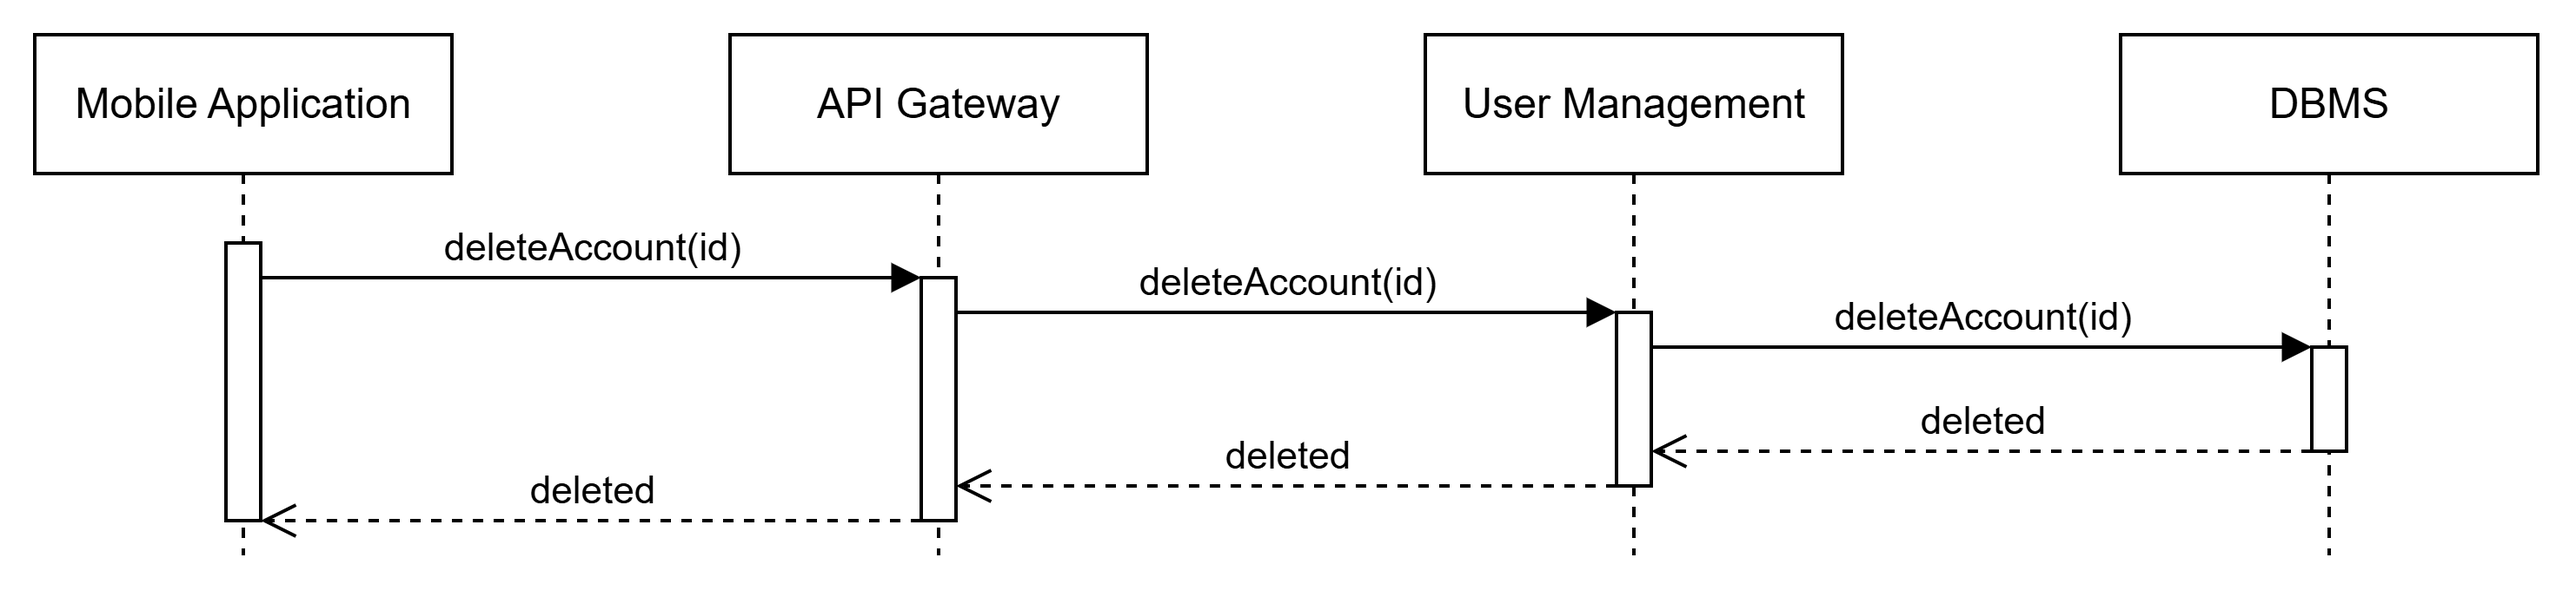
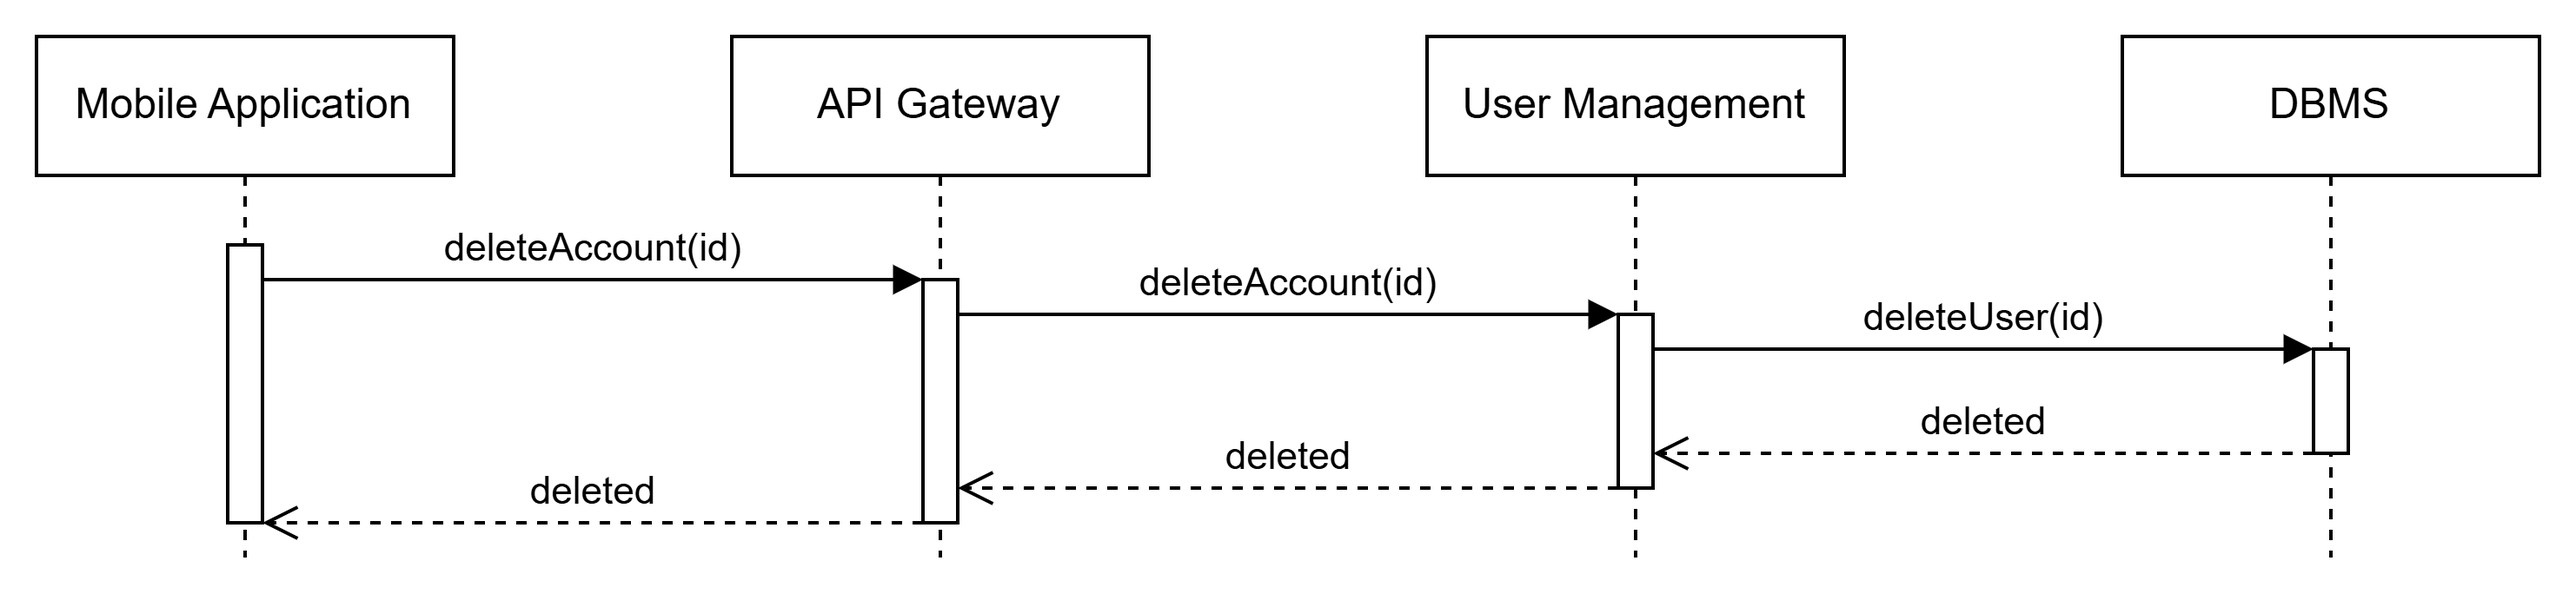
FixAdd(Section 2.4-2.5) Fix Sequence Diagrams, Add API
Fixed sequence diagrams to better model the system and make them consistent. Added the interfaces of the various components.

diff --git a/DD/source/sections/2_architectural_design.tex b/DD/source/sections/2_architectural_design.tex
@@ -116,6 +116,13 @@ This component is a third-party meteorological data provider used by the platfor
 \paragraph{User Device}
 This component is the physical hardware interface and operating system services of the user's mobile device. It serves as the primary source of telemetry, continuously generating geolocation coordinates (via GPS) and motion sensor data. Crucially, it enforces operating system-level security, ensuring that the application can only access this sensitive hardware if the user has explicitly granted the necessary runtime permissions.
 
+\begin{figure}[H]
+    \centering
+    \includegraphics[width=0.9\linewidth]{DD//source//images//diagrams/component_diagram.png}
+    \caption{Component Diagram.}
+    \label{fig:component_diagram}
+\end{figure}
+
 \subsection{Deployment View}
 \begin{figure}[H]
     \centering
@@ -155,7 +162,7 @@ The following diagrams show the interaction between the various component that m
 
 This sequence diagram shows the interactions between system components during user registration. Note that the local email and password validation is only syntactical, checking for errors in the email formatting and for well formed passwords. The password is hashed using salting and peppering, as already mentioned in the RASD, before sending the registration request to the back-end for better security. The \code{id} is generated by the DBMS, cached in the API gateway and returned to the user for session handling: all subsequent client requests also include the id, so the API gateway can authenticate the user.
 
-\newpage
+\vspace{0.5cm}
 \noindent
 \textbf{UC2: User Login}
 \begin{figure}[H]
@@ -224,6 +231,7 @@ This sequence diagram shows the interactions between system components during tr
     \label{fig:change_prefs_sd}
 \end{figure}
 
+
 This sequence diagram shows the interactions between system components during preferences changes. The client simply dispatches a request to switch preferences to the user management component, which saves the preferences to the database, via the DBMS.
 
 \newpage
@@ -235,6 +243,7 @@ This sequence diagram shows the interactions between system components during pr
     \caption{View History and Statistics of Completed Trips Sequence Diagram.}
     \label{fig:details_sd}
 \end{figure}
+
 
 This sequence diagram shows the interactions between system components when the user views the history and statistics of completed trips. The client gets from the server the global user statistics, all planned and completed trips in parallel, showing them to the user. Once the user clicks on a completed trip, all information regarding the trip is fetched and displayed.
 
@@ -259,6 +268,7 @@ This sequence diagram shows the interaction between system components during tri
     \caption{Manual Report Sequence Diagram.}
     \label{fig:manual_sd}
 \end{figure}
+
 
 This sequence diagram shows the interaction between system components during manual reporting. After completing his trip, the user can compile the report regarding the bike path he followed. A creation request is dispatched from the client to the report management system, which creates a new draft and inserts it into the database via the DBMS. For each street of the path, the user can add a new obstacle, which is done once again via a request to the report management service. Once the validation process is completed, the user may optionally publish the data: the client sends a request to the report management component which updates the state of the report, and publishes a new event on the bus, which triggers a synchronization process in the application layer to make the data up-to-date. 
 
@@ -288,6 +298,117 @@ This sequence diagram shows the interactions between system components during tr
 
 
 \subsection{Component Interfaces}
+All internal system components interact with each other via gRPC, which is a highly efficient protocol to minimize communication latency. Note that in all previous diagrams the \code{id} passed in almost every function call is the id of the user requesting the represented operations. Technically, the communication between the client and the server is done via the HTTPS protocol, which includes the id in the body, while in internal procedure calls it is necessary to pass it as argument to perform the requested operations.
+
+\newpage
+\paragraph{API}
+\begin{itemize}
+    \item register(name, surname, email, hashedPassword)
+    \item login(email, hashedPassword)
+    \item deleteAccount(id)
+    \item getMapData(id, location)
+    \item getWeatherData(id, location)
+    \item getPathsBy(id, departure, destination, filter)
+    \item getPathsInArea(id, location, filter)
+    \item getPathDetails(id, pathId)
+    \item saveTrip(id, pathId)
+    \item switchPreferences(id, preferences)
+    \item getGlobalStatistics(id)
+    \item getPlannedTrips(id)
+    \item getCompletedTrips(id)
+    \item getTripInfo(id, tripId)
+    \item deletePlannedTrip(id, tripId)
+    \item createReport(id)
+    \item addObstacle(id, reportId, data)
+    \item publishReport(id, reportId)
+    \item sendSensorDataBatch(id, data)
+    \item terminateAutomaticReport(id, reportId)
+    \item updateAutomaticReport(id, reportId, data)
+\end{itemize}
+
+\paragraph{User Management Service Interface}
+\begin{itemize}
+    \item registerUser(name, surname, email, hashedPassword)
+    \item logIn(email, hashedPassword)
+    \item updateProfile(id, data)
+    \item deleteAccount(id)
+\end{itemize}
+
+\paragraph{Path Exploration Service Interface}
+\begin{itemize}
+    \item getPaths(departure, destination, filter)
+    \item getPaths(location, filter)
+    \item getPathDetails(pathId)
+\end{itemize}
+
+\paragraph{Trip Management Service Interface}
+\begin{itemize}
+    \item saveTrip(id, pathId)
+    \item getGlobalStatistics(id)
+    \item getPlannedTrips(id)
+    \item getCompletedTrips(id)
+    \item getTripInfo(tripId)
+    \item deletePlannedtrip(id, tripId)
+\end{itemize}
+
+\paragraph{Report Management Service Interface}
+\begin{itemize}
+    \item createReport(id)
+    \item addObstacle(id, reportId, data)
+    \item deleteObstacle(id, reportId, data)
+    \item publishReport(id, reportId, data)
+    \item updateReport(id, reportId, data)
+\end{itemize}
+
+\paragraph{Map \& Weather Adapter Interface}
+\begin{itemize}
+    \item getMapData(location)
+    \item getWeatherData(location)
+\end{itemize}
+
+\paragraph{Event Bus Interface}
+\begin{itemize}
+    \item subscribe()
+    \item publish(Event)
+\end{itemize}
+
+\paragraph{Tracking Ingestion Endpoint Interface}
+\begin{itemize}
+    \item sendSensorDataBatch(id, data)
+\end{itemize}
+
+\paragraph{Tracking Processing Worker Interface}
+The tracking processing worker component only reacts to \code{SensE(id, batch)} events on the bus, so it does not have an interface, other than the one needed for the publish-subscribe pattern.
+
+\paragraph{Automatic Report Generator Worker Interface}
+The automatic report generator worker component only reacts to \code{PSensE(id, data)} events on the bus, so it does not have an interface, other than the one needed for the publish-subscribe pattern.
+
+\paragraph{Alert Service Worker Interface}
+\begin{itemize}
+    \item alertUser()
+\end{itemize}
+
+\paragraph{Database Management System Interface}
+\begin{itemize}
+    \item insertUser(name, surname, email, hashedPassword)
+    \item queryUser(email, hashedPassword)
+    \item updateUser(id, data)
+    \item deleteUser(id)
+    \item queryPaths(departure, destination, filter)
+    \item querypaths(location, filter)
+    \item queryPathDetails(pathId)
+    \item insertPlannedTrip(id, pathId)
+    \item updatePreferences(id, preferences)
+    \item queryUserStatistics(id)
+    \item queryPlannedTrips(id)
+    \item queryCompletedTrips(id)
+    \item queryTripDetails(tripId)
+    \item softDeleteTrip(id, tripId)
+    \item updateUserStatistics(id)
+    \item insertReport(id, draft)
+    \item updateReport(id, reportId, data)
+    \item queryReport(id, reportId)
+\end{itemize}
 
 \subsection{Selected Architectural Styles and Patterns}
 \paragraph{3 Tier Architecture}
